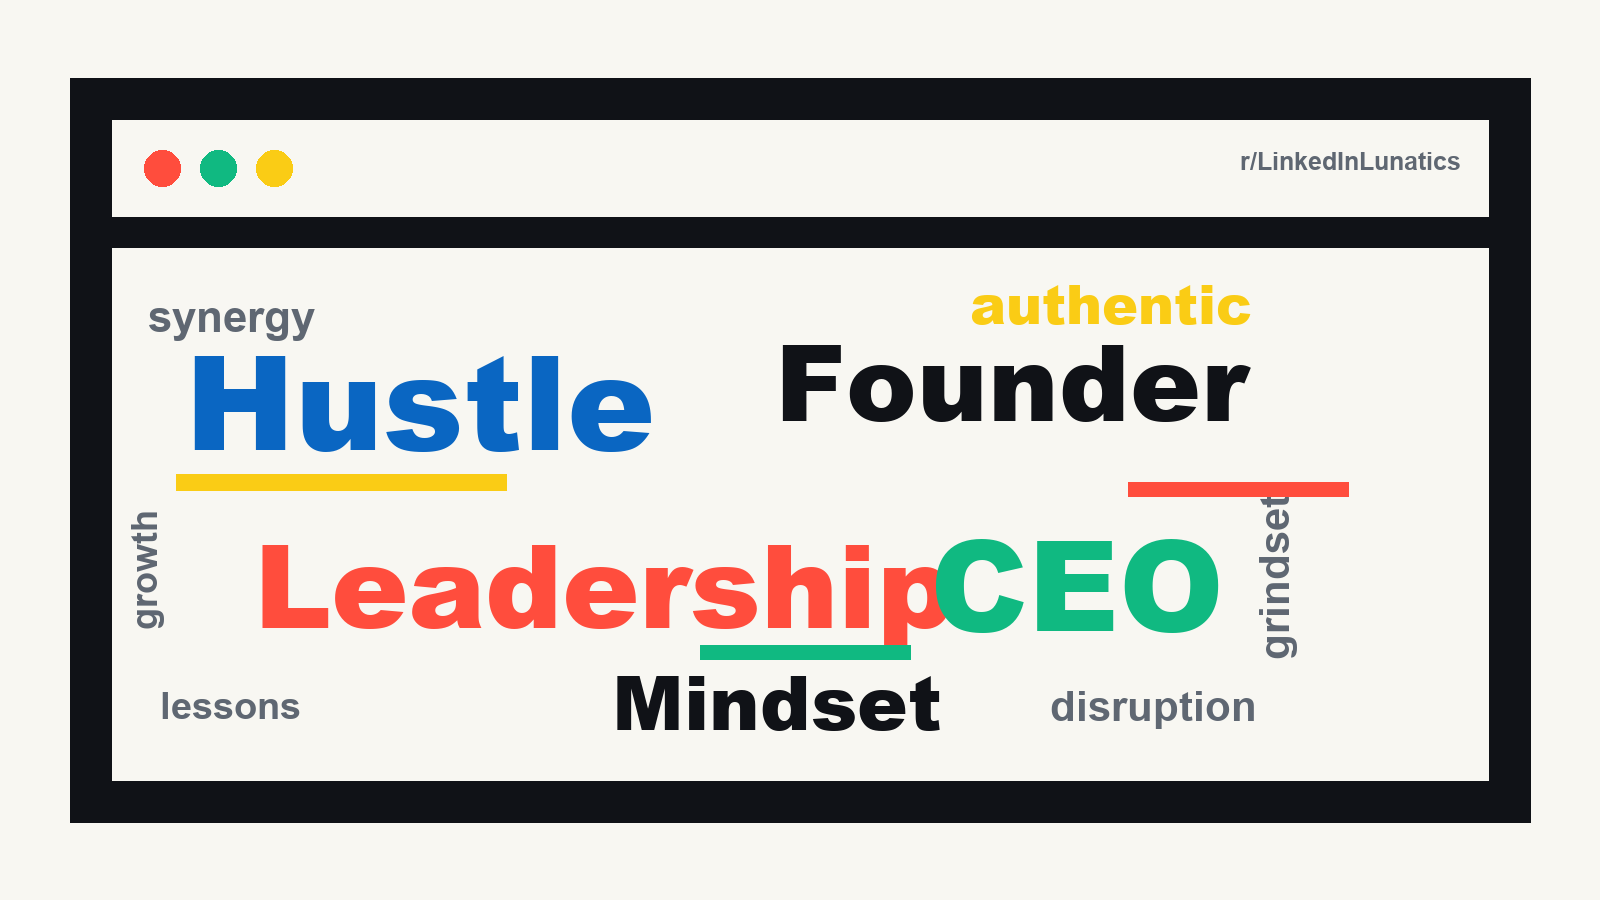
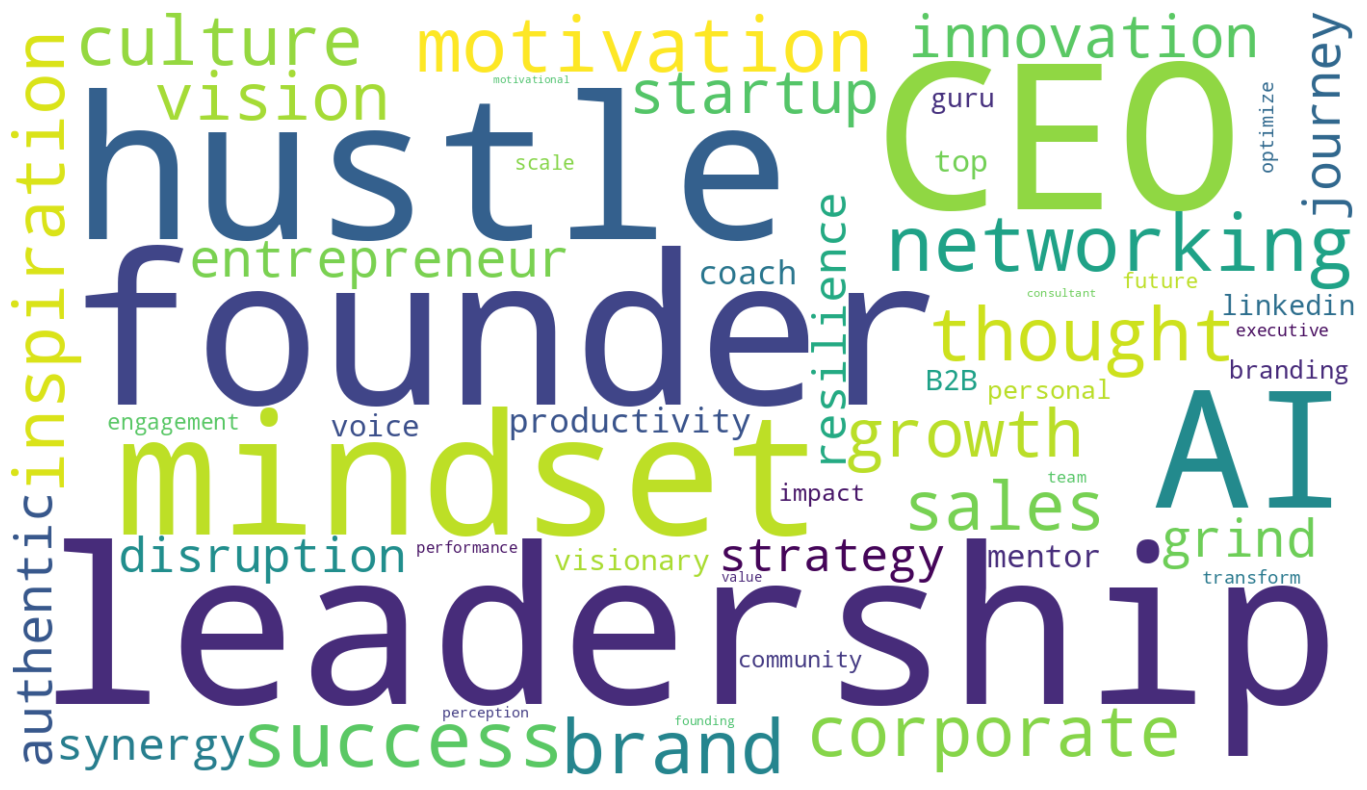
updated linkedin lunatics blog body image

diff --git a/src/content/blog/linkedin-lunatics-wordcloud.md b/src/content/blog/linkedin-lunatics-wordcloud.md
@@ -6,7 +6,7 @@ heroImage: "y2kwordcloud.png"
 tags: ["linkedin", "data", "weird internet"]
 featured: false
 ---
-<img src="/images/y2kwordcloud.png" alt="word cloud of most used linkedin buzzwords"><br>
+<img src="/images/linkedin_lunatics_wordcloud.png" alt="word cloud of most used linkedin buzzwords"><br>
 Fine. You want me to use AI. I'll at least use it to make me laugh, roll my eyes, or find ways to cut through the garbage. That being said, I had ChatGPT scrape the LinkedIn posts that were shared/flamed/roasted in the <a href="https://www.reddit.com/r/LinkedInLunatics/">r/LinkedInLunatics</a> subreddit in the last year to see what words were used the most.
 
 Hilariously, the top words were: